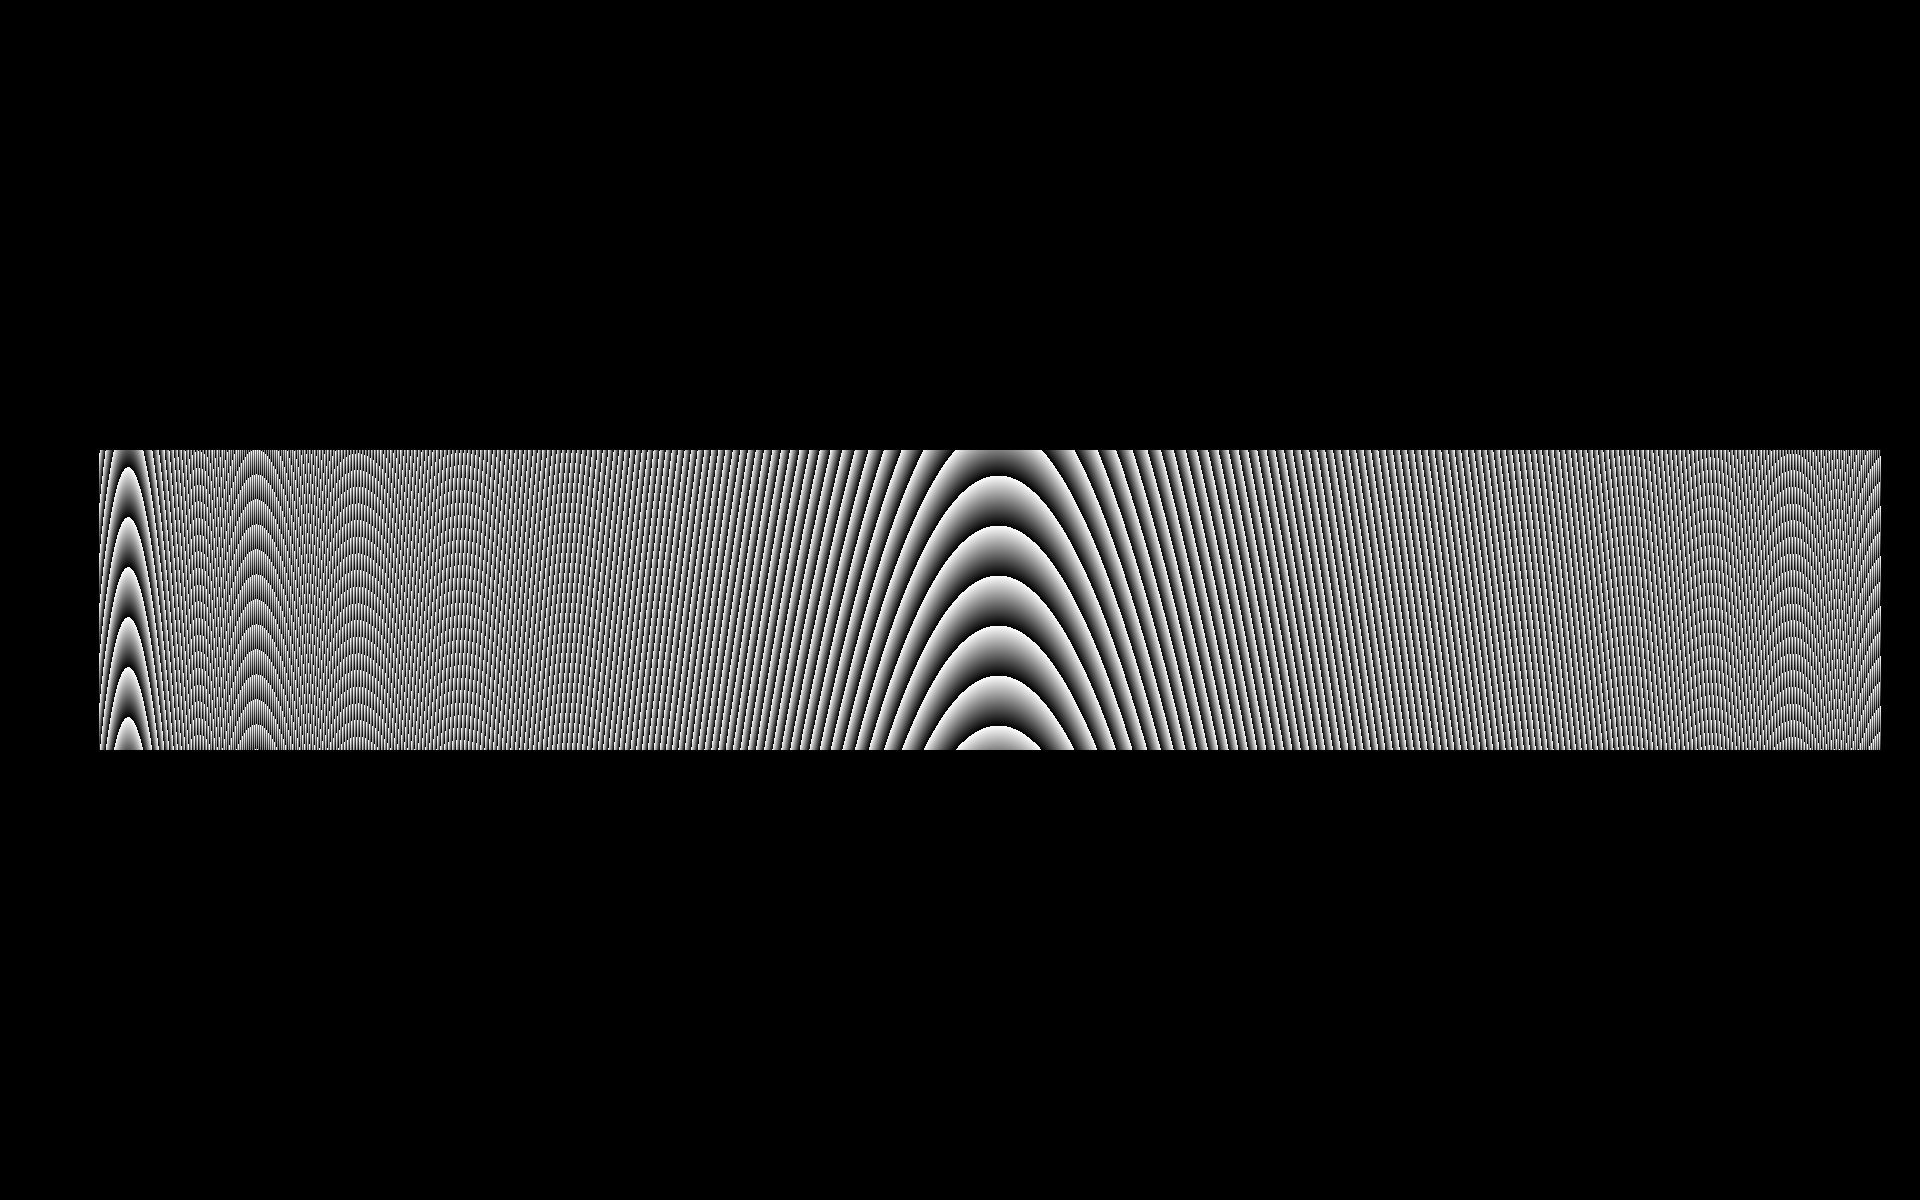
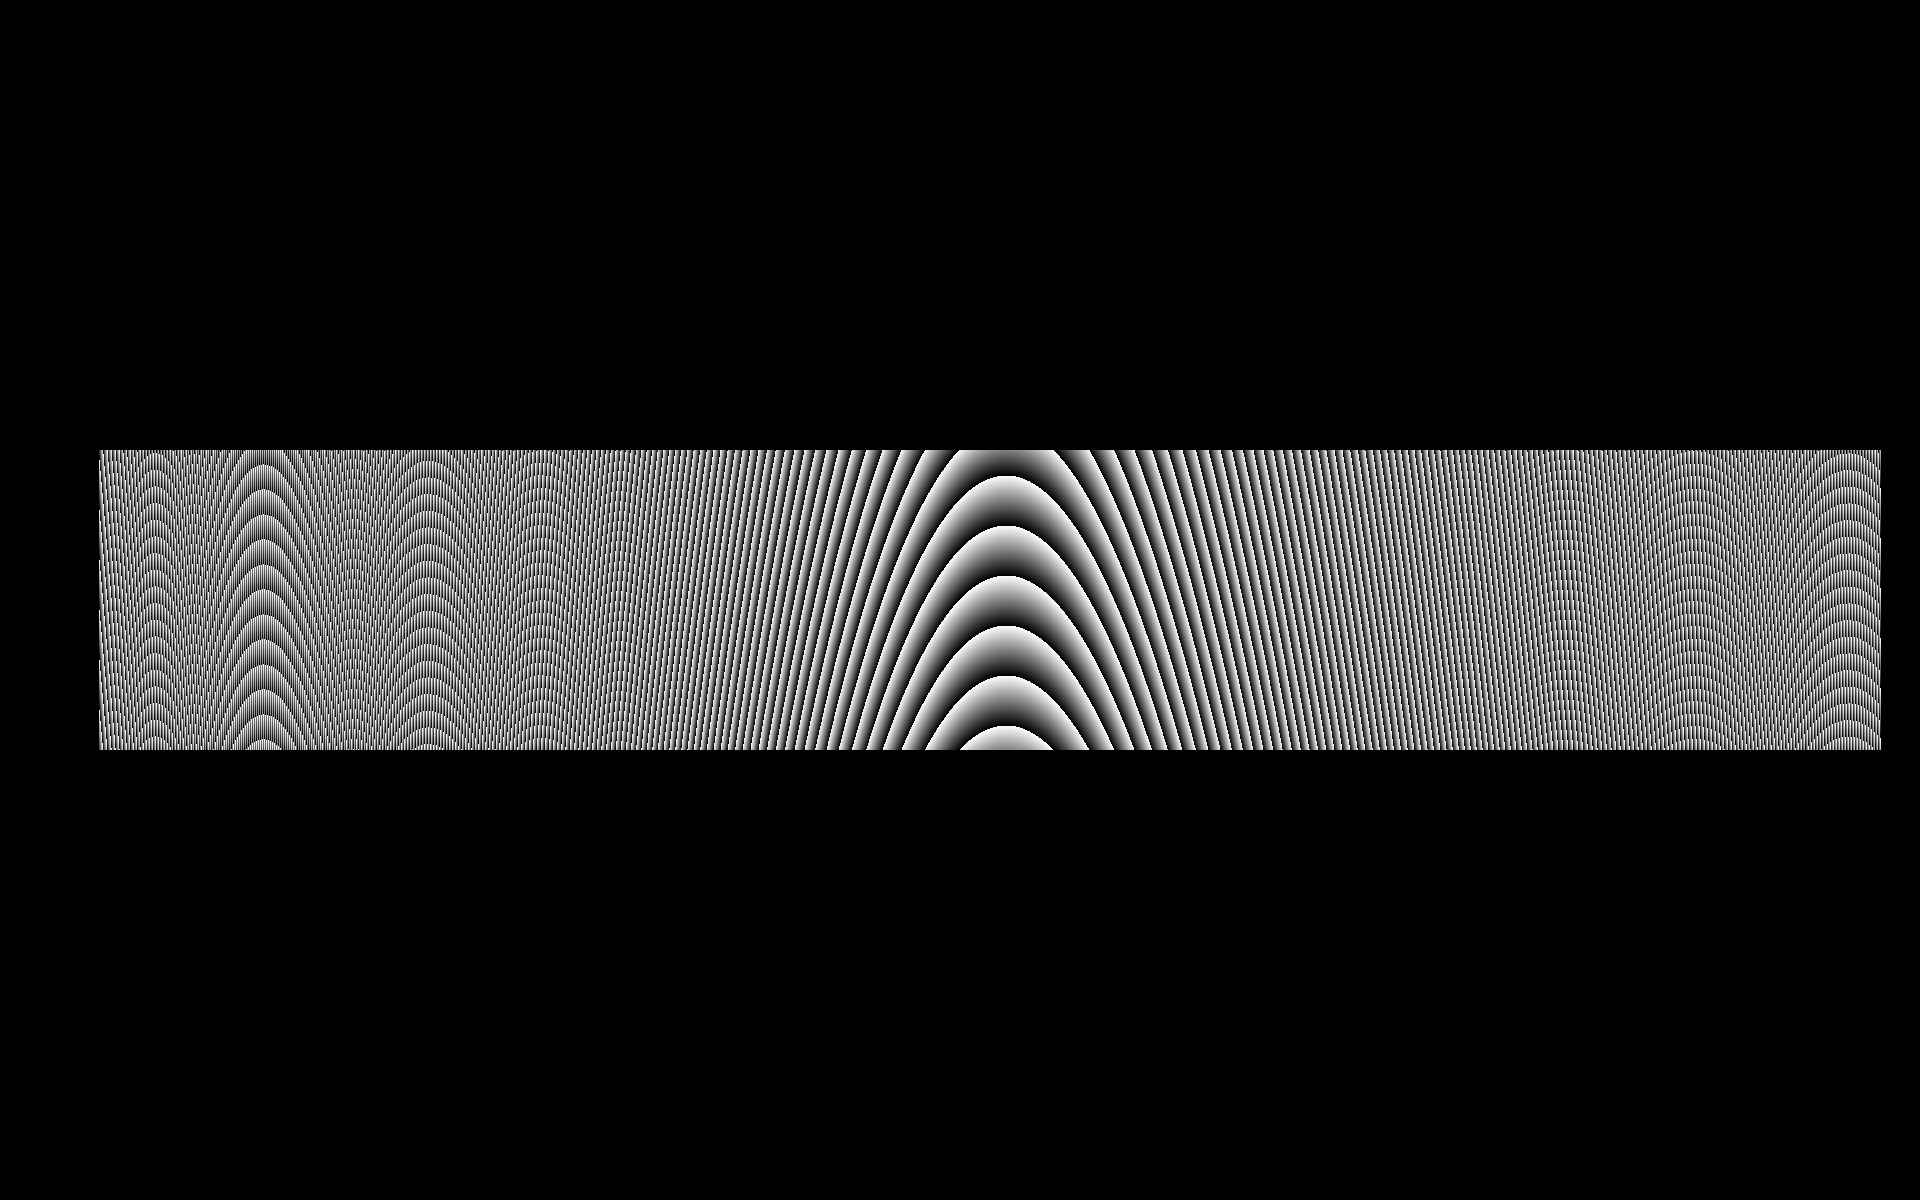
Final details

Changed region(s): [[0.5312, 0.37, 1.0, 0.6475], [0.0312, 0.37, 0.4688, 0.6475]]

diff --git a/src/compute/beams.py b/src/compute/beams.py
@@ -191,6 +191,7 @@ class Beam:
             input:
                 - phasePolynomial (numpy Polynomial object): A Numpy Polynomial representing the phase profile taking arguments in angular frequency (rad.Hz)
                 - unit (str, default 'fs'): The units in which the phase coefficients are provided.
+                - TaylorPrefactorFlag: specify if the phase needs to by multiplied ('add') or divided ('remove') by the Taylor series prefactor
         '''
         phasePolynomial = self.TaylorPrefactor(phasePolynomial, TaylorPrefactorFlag)
         self.optimalPhasePolynomial=self.convertPhaseCoeffUnits(phasePolynomial,input_units=unit,output_units='s')
@@ -202,6 +203,7 @@ class Beam:
                 - indices (nd.array of int) : Indices at which to sample the 
                 - units_to_return (str 'fs' or 's'): Specifies the units in which to return the polynomial. Polynomial is stored internally in units of seconds
                     Specifying 'fs' converts the internal units to be displayed in fs.
+                - TaylorPrefactorFlag: specify if the phase needs to by multiplied ('add') or divided ('remove') by the Taylor series prefactor
             output:
                 - (Numpy Polynomial): The current relative or absolute spectral phase taking arguments in angular frequency (rad.Hz)
         '''
@@ -239,6 +241,7 @@ class Beam:
             input:
                 - phasePolynomial (numpy Polynomial object): A Numpy Polynomial representing the phase profile taking arguments in angular frequency (rad.Hz)
                 - mode (string): Specifies if the phase is relative to the optimal phase profile ('relative', default) or absolute ('absolute')
+                - TaylorPrefactorFlag: specify if the phase needs to by multiplied ('add') or divided ('remove') by the Taylor series prefactor
         '''
         phasePolynomial = self.TaylorPrefactor(phasePolynomial, TaylorPrefactorFlag)
         if mode is None:
@@ -257,7 +260,7 @@ class Beam:
                 - mode (string): Specifies if the phase returned is relative to the optimal phase profile ('relative', default) or absolute ('absolute')
                 - units_to_return (str 'fs' or 's'): Specifies the units in which to return the polynomial. Polynomial is stored internally in units of seconds
                     Specifying 'fs' converts the internal units to be displayed in fs.
-                - for_display (bool): Specifies if the phase polynomial coeff are to be used for display only. In this case, the value of the optimal phase polynomial is not subtracted.
+                - TaylorPrefactorFlag: specify if the phase needs to by multiplied ('add') or divided ('remove') by the Taylor series prefactor
             output:
                 - (Numpy Polynomial): The current relative or absolute spectral phase taking arguments in angular frequency (rad.Hz)
         '''
@@ -268,6 +271,8 @@ class Beam:
         elif mode=='absolute':
             returnPolynomial=self.currentPhasePolynomial
         returnPolynomial = self.TaylorPrefactor(returnPolynomial, TaylorPrefactorFlag)
+        if TaylorPrefactorFlag == 'add':
+            print(returnPolynomial)
         return self.convertPhaseCoeffUnits(returnPolynomial,input_units='s',output_units=units_to_return)
     
     def get_horizontalIndices(self):
@@ -293,7 +298,7 @@ class Beam:
             mode=self.current_phase_mode
         if indices is None:
             indices=self.indices
-        phase_polynomial=self.get_currentPhase(mode=mode)
+        phase_polynomial=self.get_currentPhase(mode=mode, TaylorPrefactorFlag='add')
 
         compression_polynomial=phase_polynomial.copy()
         if len(phase_polynomial.coef)>1:

diff --git a/src/main.py b/src/main.py
@@ -569,9 +569,13 @@ class MainInterface(QtWidgets.QMainWindow):
         if hasattr(self, 'temporalfitting'):
             temporal_calib_dict = self.DataHandling.calibration['temporal_calibration_processed_data']
             coeffs = self.temporalfitting.fit_chirp_scan(temporal_calib_dict['wavelengths'], temporal_calib_dict['chirps'], temporal_calib_dict['data'], self.chirp_polynomial_order_value.value(), float(self.compression_carrier_wavelength_Qline.text()))
-            coeffs_scaled = [coeffs[i] * (10**15)**i for i in range(len(coeffs))] # Multiply by the factorial denominator
-            poly_eq = " + ".join(f"c{i}" if i == 0 else f"c{i} * x" if i == 1 else f"c{i} * x^{i}" for i in range(len(coeffs)))
-            lines = [f"Equation: {poly_eq}", ""] + [f"c{i} = {v:.2e} {'fs^2' if i == 0 else f'fs^{i+2}'}" for i, v in enumerate(coeffs_scaled)]
+            coeffs_scaled = [coeffs[i] * (10**15)**i for i in range(len(coeffs))]
+            # Generate names dynamically
+            names = ["GDD" if i == 0 else "TOD" if i == 1 else "FOD" if i == 2 else f"{i+2}OD" for i in range(len(coeffs))]
+            # Polynomial string using the same names list
+            poly_eq = " + ".join(names[i] + ("" if i == 0 else " * x" if i == 1 else f" * x^{i}") for i in range(len(coeffs)))
+            # Lines with coefficients using the same names
+            lines = [f"Equation: {poly_eq}", ""] + [f"{names[i]} = {v:.2e} {'fs^2' if i == 0 else f'fs^{i+2}'}" for i, v in enumerate(coeffs_scaled)]
             self.chirp_coeff.setText('\n'.join(lines))
             self.last_temp_fit_coeffs = np.array(np.concatenate(([0, 0], coeffs_scaled)))
 
@@ -583,12 +587,12 @@ class MainInterface(QtWidgets.QMainWindow):
         beam = self.DataHandling.get_beams()[self.beam_name_box.currentText()]
         beam.set_compressionCarrierWave(float(self.compression_carrier_wavelength_Qline.text()) * 10**(-9))
         self.last_temp_fit_coeffs = np.rint(self.last_temp_fit_coeffs).astype(int)
-        old_coeff = beam.get_optimalPhase(units_to_return='fs',TaylorPrefactorFlag='remove').coef
+        old_coeff = beam.get_optimalPhase(units_to_return='fs').coef
         if len(self.last_temp_fit_coeffs) < len(old_coeff):
             self.last_temp_fit_coeffs = np.pad(self.last_temp_fit_coeffs, (0, len(old_coeff) - len(self.last_temp_fit_coeffs)), 'constant', constant_values=0)
         elif len(old_coeff) < len(self.last_temp_fit_coeffs):
             old_coeff = np.pad(old_coeff, (0, len(self.last_temp_fit_coeffs) - len(old_coeff)), 'constant', constant_values=0)
-        beam.set_optimalPhase(P(self.last_temp_fit_coeffs+old_coeff),TaylorPrefactorFlag='add')
+        beam.set_optimalPhase(P(self.last_temp_fit_coeffs+old_coeff))
         self.DataHandling.set_beam((self.beam_name_box.currentText(), beam))
 
     def spectralBeamCalibrationMeasurement(self):

diff --git a/src/measurements/CalibrationClasses.py b/src/measurements/CalibrationClasses.py
@@ -397,7 +397,7 @@ class ChirpCalibrationMeasurement(QtCore.QThread):
                     for i in range(len(self.chirp)):
                         if not self.terminate:
                             self.coeffs = np.array(np.concatenate(([0, 0], [self.chirp[i]])))
-                            self.beam.set_currentPhase(P(self.coeffs), mode='relative', unit='fs', TaylorPrefactorFlag='add')
+                            self.beam.set_currentPhase(P(self.coeffs), mode='relative', unit='fs')
                             self.send_beam.emit((self.beam_name, self.beam))
                             image_output = self.beam.makeGrating()                
                             self.SLM.write_image(image_output)

diff --git a/src/GUI/BeamExplorer.py b/src/GUI/BeamExplorer.py
@@ -146,11 +146,11 @@ class BeamWidget(QWidget):
         coefs = self.beam.get_optimalPhase().coef
         ncols = len(coefs)
         self.phase_coeff_table.setColumnCount(ncols)
-        headers = ["Phase", "Delay"]  # first two fixed
+        headers = ["CEP", "GD (fs)", "GDD (fs^2)", "TOD (fs^3)", "FOD (fs^4)"]  # first five fixed
 
         # Higher-order terms
-        for order in range(2, ncols):
-            headers.append(f"O({order}) (fs^{order})")
+        for order in range(5, ncols):
+            headers.append(f"{order}OD (fs^{order})")
         self.phase_coeff_table.setHorizontalHeaderLabels(headers)
 
         self.phase_coeff_table.blockSignals(True) # Avoid going into set_phase_manually

diff --git a/manual/beam_management.md b/manual/beam_management.md
@@ -33,6 +33,14 @@ The status of all beams is mirrored in the Beam Explorer, implemented in `BeamEx
 Every time a beam object is emitted from DataHandling, the Beam Explorer gets a copy of those and updates the display accordingly.
 All attributes of a beam can be modified from the beam explorer. 
 The parameters are update only when the APPLY BEAMS button is pressed.
+IMPORTANT NOTE: the parameters in Beam Explorer correspond to the phase order:
+    - CEP :         Carrier-envelope phase
+    - GD (fS) :     Group delay 
+    - GDD (fs^2) :  Group delay dispersion
+    - TOD (fs^3) :  Third-order dispersion
+    - FOD (fs^4) :  Fourth-order dispersion
+    - HOD (fs^H) :  Higher-order dispersion, 5OD (fs^5), 6OD (fs^6), etc.
+The Taylor series prefactor 1/n! ARE NOT included in those phase parameters. However, when the `make_grating` is use, the SLM received the right phase including the prefactors. 
 The Relative checkbox sets wether the coefficients displayed in the Current row of the phase table are relative to the optimal row or not.
 A plot shows the phase profile of the beam.
 Checking Plot Relative plots only the phase profile applied relative to the optimal phase profile.

diff --git a/manual/calibrations/temporal_calibration.md b/manual/calibrations/temporal_calibration.md
@@ -13,7 +13,7 @@ Chirp scans can be performed from the Chirp Scan panel in the Temporal Calibrati
 
 2. The first thing you have to do is take the background by simply block the laser from Colbert, i.e. you do have to block the ambient light in front of the monochromator. By clicking on `Background`, the background will be saved in Data_Handling. 
 
-3. Secondly, you must enter the needed informations in the measurement block, i.e. carrier wavelength, beam name and the chirp scan parameters. YOU ALSO HAVE TO ADD THE SHG BANDPASS FILTER IN FRONT OF THE MONOCHROMATOR.
+3. Secondly, you must enter the needed informations in the measurement block, i.e. carrier wavelength, beam name and the GDD interval parameters. YOU ALSO HAVE TO ADD THE SHG BANDPASS FILTER IN FRONT OF THE MONOCHROMATOR.
 
 4. Then you can click on `acquire`. If demo mode is selected, it will take old saved data. Otherwise, the program will perform the chirp scan and show you the result on the top right figure. The background saved data will be subtracted from every scan step. 
 
